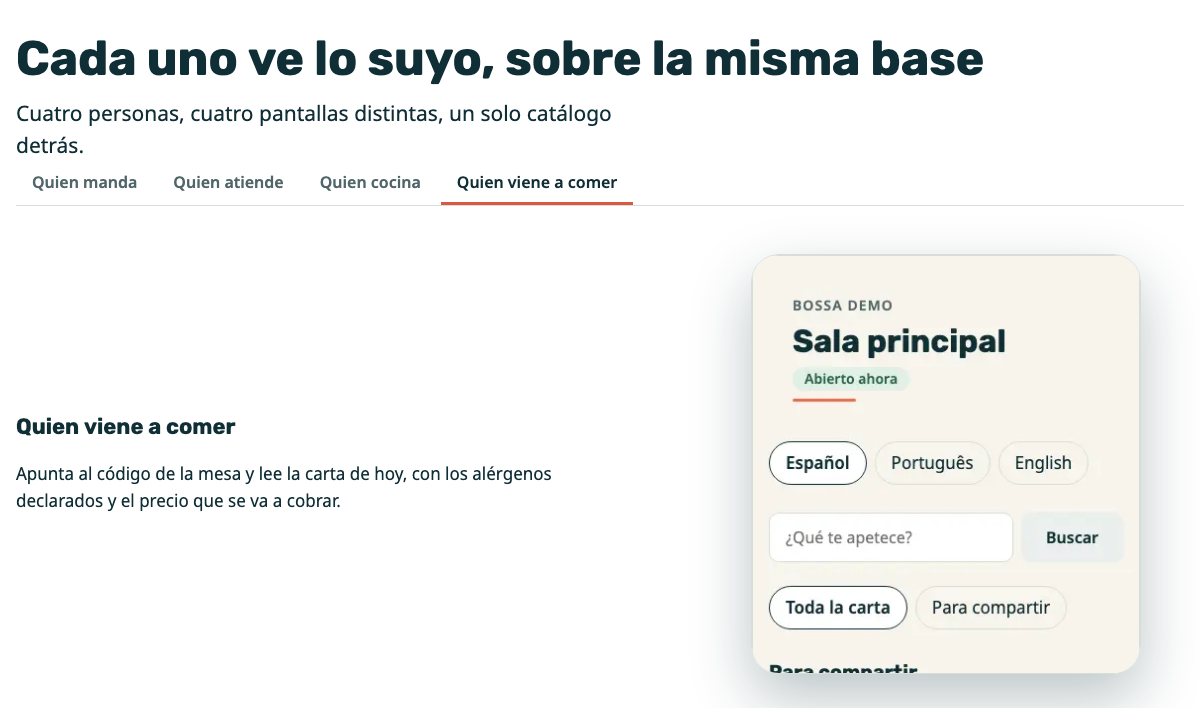
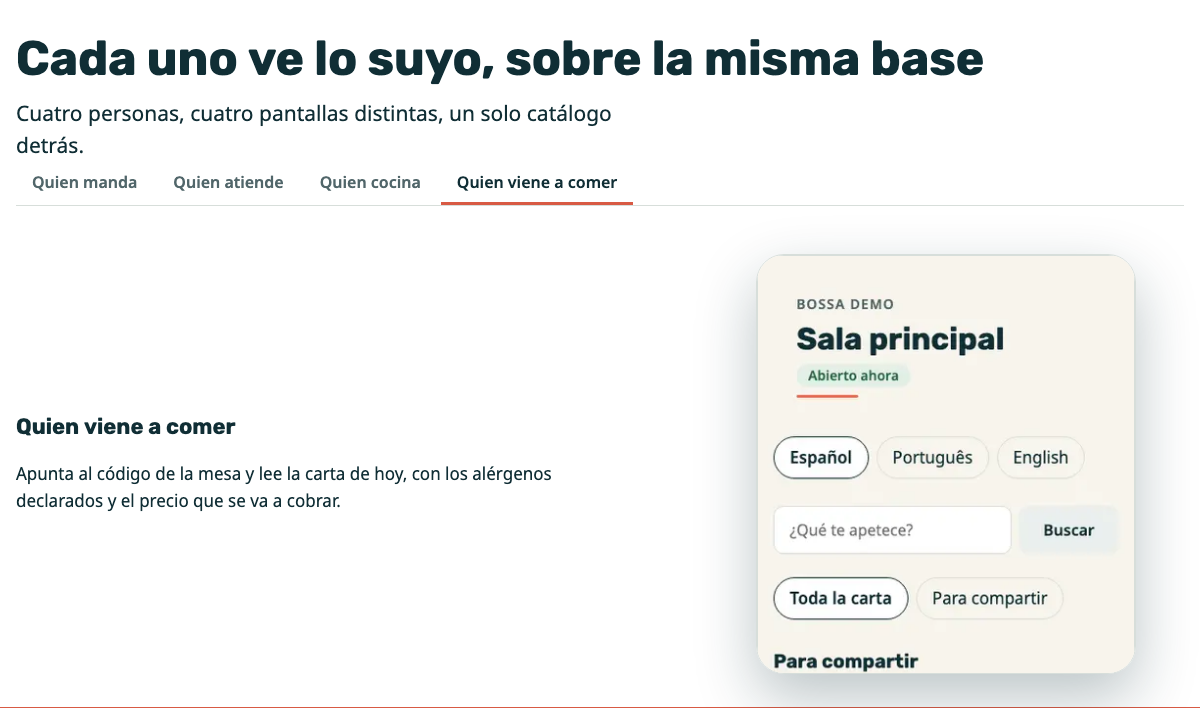
Os quatro por decidir nao eram decisoes: curados, e a spec ganha controlo
13 composicoes, zero defeitos, zero por decidir.

Heroi KDS 5,4 -> 12,3: o kdsRecorte ja existia. E havia uma segunda metade
- a promessa dizia 380 para uma caixa de 494 e o ficheiro vinha AMPLIADO
1,286x. Trocar so a fonte deixava a mentira de pe.

/product x3 -> 11,2 12,6 11,2: caixa 1072 -> 1152 por transbordo medido
(calc(100% + 80px) com margem -40), so acima de 1200 porque abaixo disso o
main nao tem recuo para emprestar e a pagina rolaria na horizontal.
Alargar curou a legibilidade e ESTRAGOU a nitidez para 1,067, ate a
promessa passar a dizer 1152 em vez de 75vw.

Heroi sala 6,5 -> 11,2: tres capturas a 834. O 4.2 ja tinha decidido -
captura de pelo menos 650px e ler os titulos sem ampliar nao deixam escolha.

Tres vezes o mesmo defeito e mudou de lado das tres: a distancia entre a
ranhura declarada e a pintada. 390->477, 380->494, 960->1152.

E o controlo que faltava: provar-rv100-ranhuras.sh. Enquanto os quatro
estavam vermelhos a spec provava que sabia recusar por estar a recusar; no
momento em que os curei essa justificacao morreu. O plante e o simetrico,
um mestre de 1440 numa ranhura de 477, e a metade que o torna prova e
acusar UMA so - uma guarda que acusasse os treze estaria a reagir ao plante
e nao ao defeito.

Bloco 4 sem regressao: 8 passos ok, tres plantes a recusar.

Claude-Session: https://claude.ai/code/session_01NBLb4xmcXVSfngcepm5hz6

diff --git a/apps/web/src/componentes/Demonstracao.tsx b/apps/web/src/componentes/Demonstracao.tsx
@@ -5,6 +5,7 @@ import kdsCozinhaEs from '../demonstracao/es-ES/kds-cozinha-1280.png';
 import catalogoEs from '../demonstracao/es-ES/catalogo-1440.png';
 import catalogoRecorteEs from '../demonstracao/es-ES/catalogo-recorte-560.png';
 import salaRecorteEs from '../demonstracao/es-ES/sala-recorte-560.png';
+import salaHeroiEs from '../demonstracao/es-ES/sala-heroi-834.png';
 import cartaRecorteEs from '../demonstracao/es-ES/carta-recorte-560.png';
 import tabletEstreitoEs from '../demonstracao/es-ES/tablet-estreito-390.png';
 import kdsRecorteEs from '../demonstracao/es-ES/kds-recorte-560.png';
@@ -16,6 +17,7 @@ import kdsCozinhaPt from '../demonstracao/pt-BR/kds-cozinha-1280.png';
 import catalogoPt from '../demonstracao/pt-BR/catalogo-1440.png';
 import catalogoRecortePt from '../demonstracao/pt-BR/catalogo-recorte-560.png';
 import salaRecortePt from '../demonstracao/pt-BR/sala-recorte-560.png';
+import salaHeroiPt from '../demonstracao/pt-BR/sala-heroi-834.png';
 import cartaRecortePt from '../demonstracao/pt-BR/carta-recorte-560.png';
 import tabletEstreitoPt from '../demonstracao/pt-BR/tablet-estreito-390.png';
 import kdsRecortePt from '../demonstracao/pt-BR/kds-recorte-560.png';
@@ -27,6 +29,7 @@ import kdsCozinhaEn from '../demonstracao/en/kds-cozinha-1280.png';
 import catalogoEn from '../demonstracao/en/catalogo-1440.png';
 import catalogoRecorteEn from '../demonstracao/en/catalogo-recorte-560.png';
 import salaRecorteEn from '../demonstracao/en/sala-recorte-560.png';
+import salaHeroiEn from '../demonstracao/en/sala-heroi-834.png';
 import cartaRecorteEn from '../demonstracao/en/carta-recorte-560.png';
 import tabletEstreitoEn from '../demonstracao/en/tablet-estreito-390.png';
 import kdsRecorteEn from '../demonstracao/en/kds-recorte-560.png';
@@ -83,7 +86,7 @@ import kdsEstreitoEn from '../demonstracao/en/kds-estreito-390.png';
 export type NomeDaComposicao =
   | 'sala' | 'kds' | 'catalogo' | 'tablet' | 'carta'
   | 'catalogoRecorte' | 'kdsRecorte' | 'tabletRecorte'
-  | 'salaRecorte' | 'cartaRecorte' | 'tabletEstreito';
+  | 'salaRecorte' | 'cartaRecorte' | 'tabletEstreito' | 'salaHeroi';
 
 /**
  * ── A fonte segue o IDIOMA, e antes não seguia ────────────────────────────
@@ -106,6 +109,7 @@ const FONTES: Record<Idioma, Record<NomeDaComposicao, StaticImageData>> = {
     sala: salaServicoEs, kds: kdsCozinhaEs, catalogo: catalogoEs,
     catalogoRecorte: catalogoRecorteEs, kdsRecorte: kdsRecorteEs,
     salaRecorte: salaRecorteEs, cartaRecorte: cartaRecorteEs,
+    salaHeroi: salaHeroiEs,
     tabletEstreito: tabletEstreitoEs,
     tabletRecorte: tabletRecorteEs,
     tablet: salaTabletEs, carta: cartaMovelEs,
@@ -114,6 +118,7 @@ const FONTES: Record<Idioma, Record<NomeDaComposicao, StaticImageData>> = {
     sala: salaServicoPt, kds: kdsCozinhaPt, catalogo: catalogoPt,
     catalogoRecorte: catalogoRecortePt, kdsRecorte: kdsRecortePt,
     salaRecorte: salaRecortePt, cartaRecorte: cartaRecortePt,
+    salaHeroi: salaHeroiPt,
     tabletEstreito: tabletEstreitoPt,
     tabletRecorte: tabletRecortePt,
     tablet: salaTabletPt, carta: cartaMovelPt,
@@ -122,6 +127,7 @@ const FONTES: Record<Idioma, Record<NomeDaComposicao, StaticImageData>> = {
     sala: salaServicoEn, kds: kdsCozinhaEn, catalogo: catalogoEn,
     catalogoRecorte: catalogoRecorteEn, kdsRecorte: kdsRecorteEn,
     salaRecorte: salaRecorteEn, cartaRecorte: cartaRecorteEn,
+    salaHeroi: salaHeroiEn,
     tabletEstreito: tabletEstreitoEn,
     tabletRecorte: tabletRecorteEn,
     tablet: salaTabletEn, carta: cartaMovelEn,
@@ -155,6 +161,7 @@ const ESTREITAS: Record<Idioma, Partial<Record<NomeDaComposicao, StaticImageData
     catalogoRecorte: catalogoEstreitoEs, kdsRecorte: kdsEstreitoEs,
     tabletRecorte: tabletEstreitoEs,
     salaRecorte: salaEstreitaEs, cartaRecorte: cartaMovelEs,
+    salaHeroi: salaEstreitaEs,
     tabletEstreito: tabletEstreitoEs,
     tablet: salaEstreitaEs,
   },
@@ -163,6 +170,7 @@ const ESTREITAS: Record<Idioma, Partial<Record<NomeDaComposicao, StaticImageData
     catalogoRecorte: catalogoEstreitoPt, kdsRecorte: kdsEstreitoPt,
     tabletRecorte: tabletEstreitoPt,
     salaRecorte: salaEstreitaPt, cartaRecorte: cartaMovelPt,
+    salaHeroi: salaEstreitaPt,
     tabletEstreito: tabletEstreitoPt,
     tablet: salaEstreitaPt,
   },
@@ -171,6 +179,7 @@ const ESTREITAS: Record<Idioma, Partial<Record<NomeDaComposicao, StaticImageData
     catalogoRecorte: catalogoEstreitoEn, kdsRecorte: kdsEstreitoEn,
     tabletRecorte: tabletEstreitoEn,
     salaRecorte: salaEstreitaEn, cartaRecorte: cartaMovelEn,
+    salaHeroi: salaEstreitaEn,
     tabletEstreito: tabletEstreitoEn,
     tablet: salaEstreitaEn,
   },
@@ -185,6 +194,7 @@ const ALT: Record<NomeDaComposicao, string> = {
   // «o mesmo salão num tablet», e trocar a imagem tornaria o texto falso.
   catalogoRecorte: 'altCatalogo', kdsRecorte: 'altKds', tabletRecorte: 'altTablet',
   salaRecorte: 'altSala', cartaRecorte: 'altCarta', tabletEstreito: 'altTablet',
+  salaHeroi: 'altSala',
   tablet: 'altTablet', carta: 'altCarta',
 };
 

diff --git a/inspeccao/composicoes-recortes.spec.ts b/inspeccao/composicoes-recortes.spec.ts
@@ -114,6 +114,18 @@ test('os três recortes, um por ecrã e por idioma', async ({ page }) => {
       { nome: 'tablet-estreito-390', modo: 'visor', ancora: 'h1',
         visor: VISOR_ESTREITO,
         caminho: `/${idioma}/pos/${DEMO.unidade}` },
+      // ── E a do herói, que é a única que não cabia em nenhuma das duas ────
+      //
+      // A caixa do herói pinta 667 e a banda dela é [667, 849]. Nem 390 nem 560
+      // lá cabem: 560 seria ampliado 1,19×. E encolher o herói para 477 esbarra
+      // no §4.2, que escreve **captura de pelo menos 650 px** — enquanto deixar
+      // o mestre de 1440 esbarra na outra frase do mesmo parágrafo, que manda o
+      // utilizador ler os títulos sem ampliar a página. As duas frases juntas
+      // não deixam escolha: **834**, que serve os 667 a 11,2 px.
+      { nome: 'sala-heroi-834', modo: 'recorte', ancora: 'h1',
+        largura: 834, altura: 520,
+        visor: { width: 1280, height: 900 },
+        caminho: `/${idioma}/pos/${DEMO.unidade}` },
     ] as const;
 
     mkdirSync(`${DESTINO}/${idioma}`, { recursive: true });
@@ -153,11 +165,10 @@ test('os três recortes, um por ecrã e por idioma', async ({ page }) => {
 
       // No modo `visor` não há recorte: o que se guarda é o que se vê a 390,
       // que é um desenho próprio do produto e não um terço de um ecrã largo.
+      const largura = ('largura' in r ? r.largura : RECORTE.largura) as number;
+      const altura = ('altura' in r ? r.altura : RECORTE.altura) as number;
       const janela = r.modo === 'recorte'
-        ? {
-          x: Math.round(caixa.x), y: Math.round(caixa.y),
-          width: RECORTE.largura, height: RECORTE.altura,
-        }
+        ? { x: Math.round(caixa.x), y: Math.round(caixa.y), width: largura, height: altura }
         : undefined;
       await page.screenshot({
         path: `${DESTINO}/${idioma}/${r.nome}.png`,
@@ -165,7 +176,7 @@ test('os três recortes, um por ecrã e por idioma', async ({ page }) => {
         ...(janela ? { clip: janela } : {}),
       });
       const medida = r.modo === 'recorte'
-        ? `${RECORTE.largura}x${RECORTE.altura}`
+        ? `${largura}x${altura}`
         : `${r.visor.width}x${r.visor.height}`;
       console.log(`RECORTE ${idioma}/${r.nome}.png ${medida} de ${r.caminho}`);
     }

diff --git a/apps/web/app/[idioma]/product/page.tsx b/apps/web/app/[idioma]/product/page.tsx
@@ -1,7 +1,7 @@
 import { Botao } from '@bossaos/ui';
 import { mensagensDe, type Idioma } from '@bossaos/i18n';
 import { MolduraMkt } from '../../../src/componentes/Marketing.tsx';
-import { AvisoDeDemonstracao, Composicao, RANHURA_LARGA } from '../../../src/componentes/Demonstracao.tsx';
+import { AvisoDeDemonstracao, Composicao } from '../../../src/componentes/Demonstracao.tsx';
 import type { Metadata } from 'next';
 import { metadadosDaRota } from '../../../src/seo/metadados.ts';
 
@@ -69,11 +69,11 @@ export default async function Produto({ params }: { params: Promise<{ idioma: Id
         <h2 id="t-comanda">{k.prodComandaTitulo}</h2>
         <p className="bo-publico__texto">{k.prodComandaTexto}</p>
         <div className="bo-mkt__par">
-          <figure className="bo-mkt__figura">
-            <Composicao qual="sala" idioma={idioma} prioritaria ranhuraPorDecidir={RANHURA_LARGA} />
+          <figure className="bo-mkt__figura bo-mkt__figura--transbordo">
+            <Composicao qual="sala" idioma={idioma} prioritaria ranhuraPorDecidir="(min-width: 1200px) 1152px, 100vw" />
           </figure>
-          <figure className="bo-mkt__figura">
-            <Composicao qual="kds" idioma={idioma} ranhuraPorDecidir={RANHURA_LARGA} />
+          <figure className="bo-mkt__figura bo-mkt__figura--transbordo">
+            <Composicao qual="kds" idioma={idioma} ranhuraPorDecidir="(min-width: 1200px) 1152px, 100vw" />
           </figure>
         </div>
         <p className="bo-mkt__legenda">{k.heroiLegenda}</p>
@@ -83,8 +83,8 @@ export default async function Produto({ params }: { params: Promise<{ idioma: Id
       <section className="bo-mkt__seccao" aria-labelledby="t-catalogo">
         <h2 id="t-catalogo">{k.prodCatalogoTitulo}</h2>
         <p className="bo-publico__texto">{k.prodCatalogoTexto}</p>
-        <figure className="bo-mkt__figura">
-          <Composicao qual="catalogo" idioma={idioma} ranhuraPorDecidir={RANHURA_LARGA} />
+        <figure className="bo-mkt__figura bo-mkt__figura--transbordo">
+          <Composicao qual="catalogo" idioma={idioma} ranhuraPorDecidir="(min-width: 1200px) 1152px, 100vw" />
         </figure>
       </section>
 

diff --git a/packages/ui/src/estilos.css b/packages/ui/src/estilos.css
@@ -2195,6 +2195,24 @@ ol.bo-mkt__passos { list-style: none; margin: 0; padding: 0; }
 }
 .bo-mkt__figura { margin: 0; min-width: 0; }
 .bo-mkt__figura--estreita { max-width: 390px; }
+/* ── Transbordo medido, para o mestre de 1440 caber na banda ───────────────
+   O `main` é 1200 com 64 px de recuo de cada lado, o que dá 1072 de conteúdo —
+   e 1072 põe o mestre de 1440 a 10,4 px, abaixo dos 11. A banda de 1072 é
+   [1072, 1364] e não há variante que lá caiba; alargar a caixa para **1152** faz
+   o mestre que já lá está servir, e dá 11,2 px.
+   80 px de transbordo, 40 para cada lado: 1072+80 = 1152, e 1152 continua dentro
+   dos 1200 do `main`, portanto a página não passa a rolar na horizontal.
+   **1131 daria exactamente 11,0**, encostado ao limiar — 1152 deixa margem. */
+/* Só a partir de 1200: abaixo disso o `main` já não tem 64 px de recuo para
+   emprestar, e `calc(100% + 80px)` punha a página a rolar na horizontal — que é
+   o que a régua do E02 proíbe. */
+@media (min-width: 1200px) {
+  .bo-mkt__figura--transbordo {
+    width: calc(100% + 80px);
+    margin-inline: -40px;
+    max-width: none;
+  }
+}
 .bo-mkt__figura--media { max-width: 640px; }
 .bo-mkt__legenda { color: var(--bo-texto-secundario); margin-top: var(--bo-espaco-md); }
 

diff --git a/apps/web/app/[idioma]/page.tsx b/apps/web/app/[idioma]/page.tsx
@@ -177,12 +177,12 @@ export default async function Landing({
                 aberta e a cozinha onde apareceu. */}
             <figure className="ns-heroi__media">
               <div className="ns-moldura">
-                <Composicao qual="sala" idioma={idioma} prioritaria
-                            ranhuraPorDecidir="(min-width: 1024px) 720px, 100vw" />
+                <Composicao qual="salaHeroi" idioma={idioma} prioritaria
+                            ranhuraPorDecidir="(min-width: 1024px) 667px, 100vw" />
               </div>
               <div className="ns-moldura ns-moldura--sobreposta ns-heroi__segunda">
-                <Composicao qual="kds" idioma={idioma}
-                            ranhuraPorDecidir="(min-width: 1024px) 380px, 60vw" />
+                <Composicao qual="kdsRecorte" idioma={idioma}
+                            ranhuraPorDecidir="(min-width: 1024px) 494px, 60vw" />
               </div>
             </figure>
           </div>

diff --git a/docs/reviews/OS-QUATRO-POR-DECIDIR-NAO-SAO-DECISOES.md b/docs/reviews/OS-QUATRO-POR-DECIDIR-NAO-SAO-DECISOES.md
@@ -59,3 +59,65 @@ si próprio.
 O plante certo é o simétrico do que já existe: pôr um mestre de ecrã inteiro numa
 ranhura abençoada e exigir que a spec o apanhe, e confirmar que **não** acusa os
 outros doze.
+
+---
+
+## Curados os quatro — 08/09
+
+Nenhum era decisão, e a correcção era sua. Medido em `rv100-ranhuras.spec.ts`:
+
+    AMBITO composicoes=13 abencoadas_com_defeito=0 por_decidir=0
+
+| sítio | antes | depois | o que custou |
+|---|---|---|---|
+| herói KDS | 5,4 px, **ampliado 1,286×** | **12,3** px, nitidez 0,882 | trocar a fonte |
+| `/product` sala | 10,4 px | **11,2** px | caixa 1072 → 1152 |
+| `/product` catálogo | 10,4 px | **11,2** px | idem |
+| `/product` KDS | 11,7 px | **12,6** px | idem, de arrasto |
+| herói sala | 6,5 px | **11,2** px | três capturas a 834 |
+
+### O herói KDS não custou nada, como o senhor disse
+
+`kdsRecorte` já existia. **E havia uma segunda metade que a sua medição não podia
+ver:** a promessa dizia `380px` e a caixa pintava **494**, portanto o navegador
+escolhia um ficheiro de 384 e **ampliava 1,286×**. Trocar só a fonte deixava a
+mentira de pé. A promessa passa a dizer os 494 que a caixa tem.
+
+### A `/product` deu-me a mesma lição do lado largo
+
+Alarguei a caixa para 1152 e a legibilidade curou-se — **e a nitidez estragou-se
+para 1,067**. O `sizes` continuava a prometer `75vw` (960 a 1280), o navegador
+escolhia o ficheiro de 1080 e ampliava-o até 1152. Alinhada a promessa com a
+caixa, serve 1200 e a nitidez fica 0,960.
+
+**É a terceira vez neste trabalho que o defeito é a distância entre a ranhura
+declarada e a ranhura pintada**, e as três vezes ela mudou de lado: 390-para-477
+no bloco 4, 380-para-494 no herói, 960-para-1152 na `/product`.
+
+O transbordo é `calc(100% + 80px)` com `margin-inline: -40px`, **só a partir de
+1200** — abaixo disso o `main` já não tem recuo para emprestar e a página passaria
+a rolar na horizontal.
+
+### O herói sala: três capturas, e o §4.2 já tinha decidido
+
+834, que serve os 667 a 11,2 px. Encolher para 477 violava «captura de pelo menos
+650 px»; deixar o mestre violava «ler os títulos sem ampliar». As duas frases do
+mesmo parágrafo não deixavam escolha, e eu escalei como decisão o que o documento
+já tinha respondido.
+
+## E o controlo negativo que faltava
+
+`scripts/provar-rv100-ranhuras.sh`. **Enquanto os quatro estavam vermelhos, a
+spec provava que sabia recusar por estar a recusar. No momento em que os curei,
+essa justificação morreu** — é a mesma forma que o guião dos papéis teve de
+corrigir quando os recortes calaram a acusação da legibilidade.
+
+O plante é o simétrico: um mestre de 1440 numa ranhura abençoada de 477. Exercido:
+
+    ok  zero defeitos e zero por decidir
+    ok  apanhou-o
+    ok  e acusa UMA só — os outros doze ficam de fora
+    ok  e é a que eu plantei, e não outra qualquer
+
+**A segunda metade é a que o torna prova.** Uma guarda que acusasse os treze ao
+mexer num estaria a reagir ao plante, e não ao defeito.

diff --git a/docs/progress/HANDOFF.md b/docs/progress/HANDOFF.md
@@ -4494,3 +4494,28 @@ Migram juntas.
 kds **ampliado 1,286×**, 5,4 px) e duas largas da `/product` (10,4 px). A prova
 falha nelas de propósito — a falha É a declaração, e some quando o Matheus e a
 Nathalia decidirem entre encolher o herói para 477 ou capturar `sala` a 834.
+
+## As treze composições verdes, e a spec das ranhuras com controlo — 08/09
+
+`composicoes=13 abencoadas_com_defeito=0 por_decidir=0`. **Nenhum dos quatro
+«por decidir» era decisão** — a correcção foi do sénior e está em
+`docs/reviews/OS-QUATRO-POR-DECIDIR-NAO-SAO-DECISOES.md`.
+
+- **herói KDS** 5,4 → **12,3** px: `kdsRecorte` já existia. E a promessa dizia 380
+  para uma caixa de 494, o que o ampliava 1,286× — trocar só a fonte deixava a
+  mentira de pé.
+- **`/product` ×3** → **11,2 / 12,6 / 11,2**: caixa 1072 → 1152 por transbordo
+  medido, só acima de 1200. Alargar curou a legibilidade e **estragou a nitidez**
+  (1,067) até a promessa passar a dizer 1152.
+- **herói sala** 6,5 → **11,2**: três capturas a 834. O §4.2 já tinha decidido —
+  «captura de pelo menos 650 px» e «ler os títulos sem ampliar» não deixam escolha.
+
+**Três vezes o mesmo defeito, e mudou de lado das três:** a distância entre a
+ranhura declarada e a pintada — 390→477, 380→494, 960→1152.
+
+**`scripts/provar-rv100-ranhuras.sh` criado.** A spec ficou verde e nesse momento
+deixou de ter prova de que sabe recusar. O plante é o simétrico — mestre de 1440
+numa ranhura de 477 — e a metade que o torna prova é acusar **uma só**, deixando
+os outros doze em paz.
+
+Bloco 4 sem regressão: 8 passos ok, três plantes a recusar. Dossiê recarimbado.
